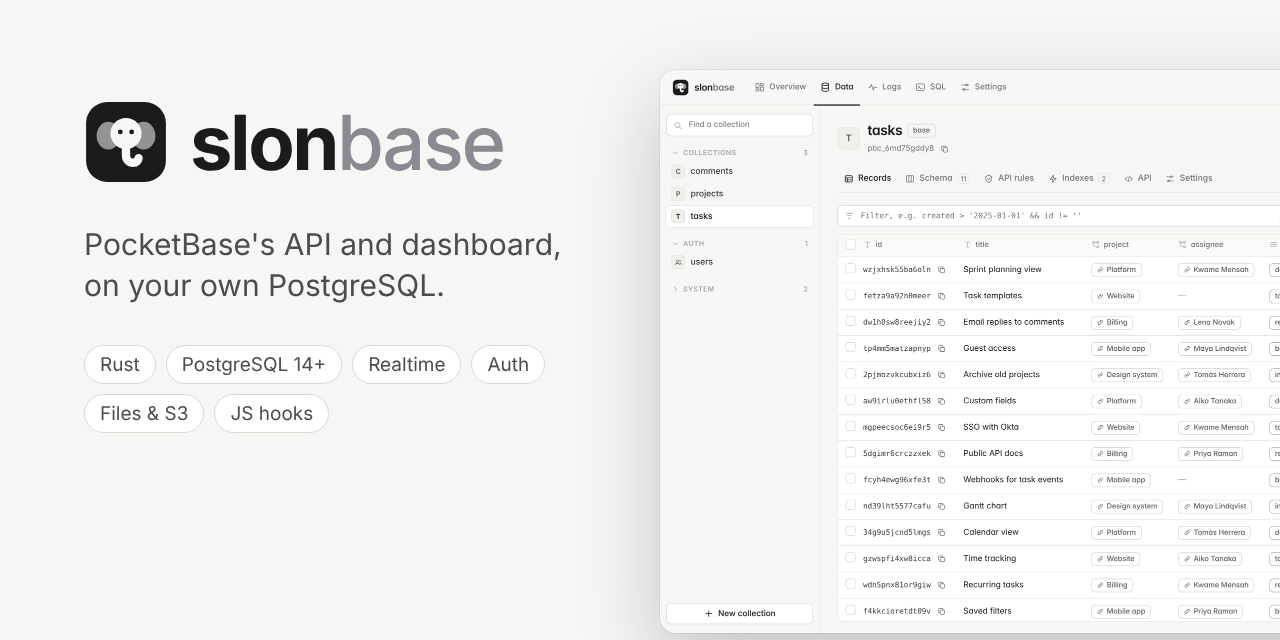
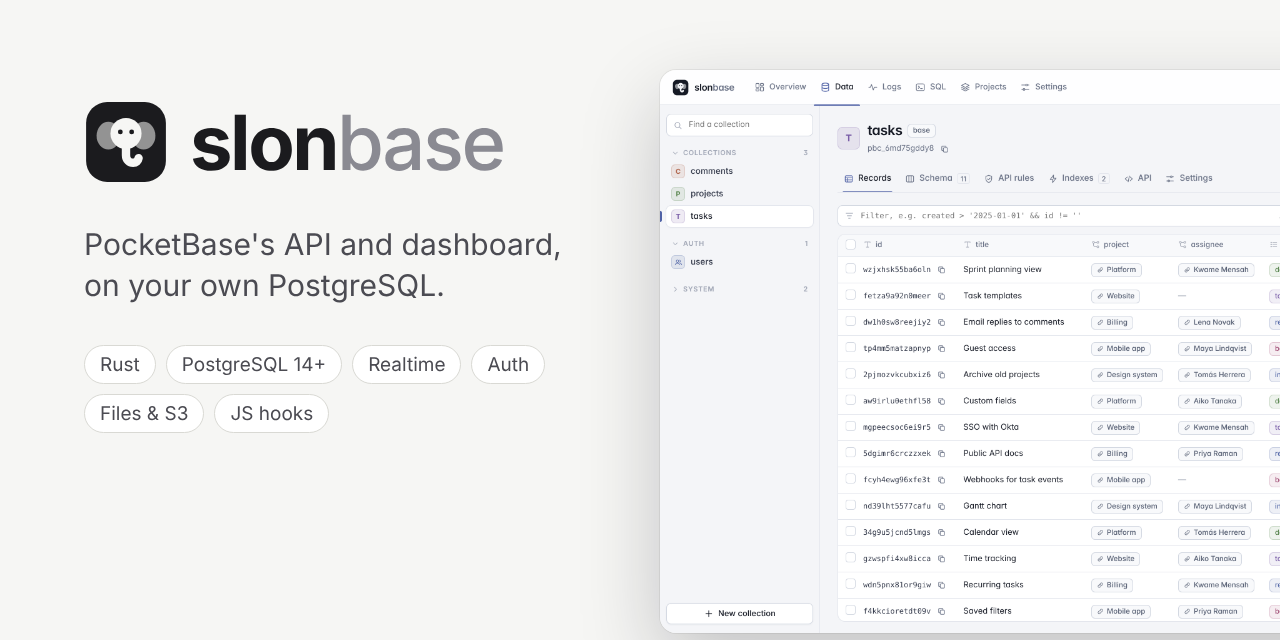
Housekeeping: design log, social preview, cargo audit in CI
- docs/design.md: the phase notes no longer list as missing what came
  later (relation paths, expand, auth alerts, rate limits, confirmation
  pages, logs, backups, the JS engine, the apt repository); what's still
  missing is kept
- README: the integration test URL disables TLS like CONTRIBUTING's,
  since a local PostgreSQL with a self-signed certificate is retried
  forever otherwise
- social preview: the current dashboard (Projects, the muted palette)
- CI: an audit job runs cargo audit, and packages wait for it

Claude-Session: https://claude.ai/code/session_01J5ESpfPVgGTCVn1d6s44fR

Changed region(s): [[0.8125, 0.125, 0.8438, 0.1562], [0.75, 0.125, 0.7812, 0.1562]]

diff --git a/README.md b/README.md
@@ -237,7 +237,7 @@ Bug reports, compatibility reports and pull requests are welcome; see
 
 ```sh
 cargo test                                                    # unit tests
-SLONBASE_TEST_DATABASE_URL='postgres://postgres:postgres@127.0.0.1:5432/postgres' cargo test   # everything
+SLONBASE_TEST_DATABASE_URL='postgres://postgres:postgres@127.0.0.1:5432/postgres?sslmode=disable' cargo test   # everything
 (cd compat && npm ci) && DATABASE_URL='postgres://...' compat/run.sh slonbase                # the SDK suite
 ```
 

diff --git a/CONTRIBUTING.md b/CONTRIBUTING.md
@@ -47,6 +47,7 @@ build step. See [ui/README.md](ui/README.md).
   cargo fmt --all --check
   cargo clippy --all-targets --locked -- -D warnings
   cargo test
+  cargo audit        # known vulnerabilities in dependencies (cargo install cargo-audit)
   ```
 
 - Behavior visible through the API should match PocketBase. Add a test to `compat/` for it, and
